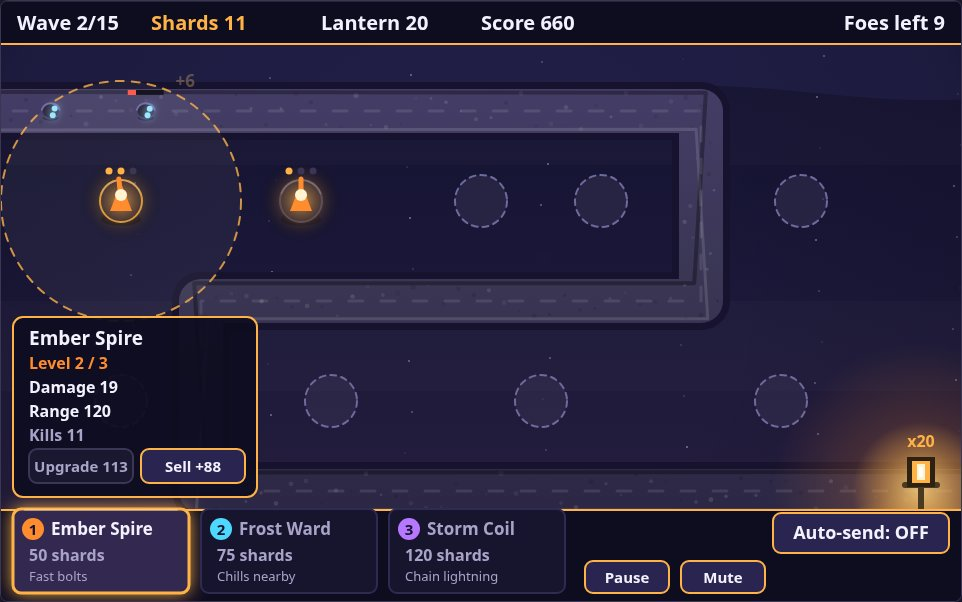
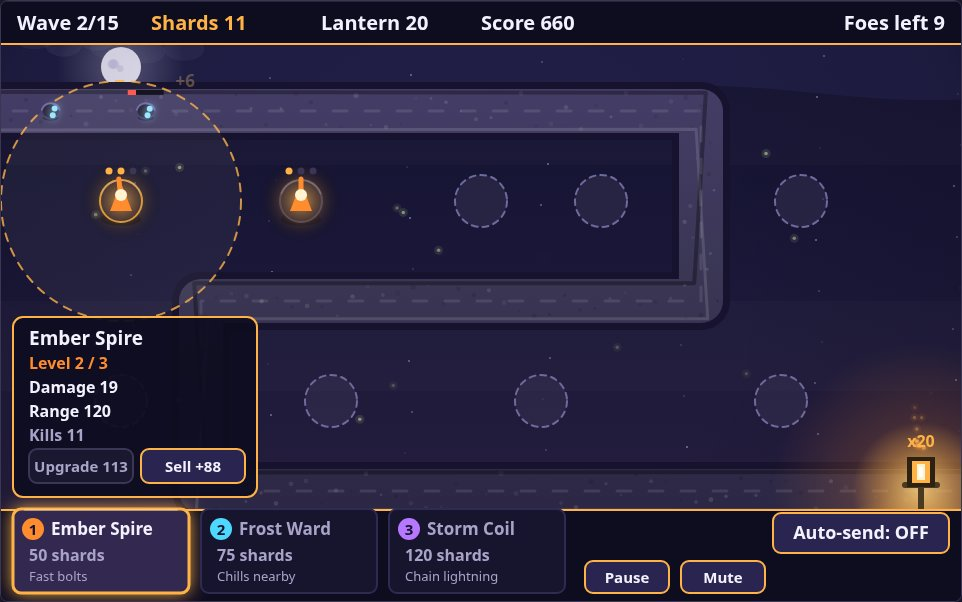
Ambience: deterministic moon, drifting clouds, fireflies, lantern embers
Pure functions of state.time + index hash (hash01): no Math.random,
no Date.now, no state. Moon + clouds in drawField (moon after the
ridge fills, which cover y=44 down to the ridge line), 14 fireflies
in drawPlayField above the path but below plots/towers/enemies, 10
rising embers from the lantern glass in drawLantern. Nothing touches
HUD, panel, path, towers or enemies; balance untouched.
Screenshots re-rendered (victory 29630, defeat wave 3 score 840).

Changed region(s): [[0.0624, 0.0598, 0.1871, 0.1495], [0.9356, 0.7176, 0.9667, 0.7475], [0.4054, 0.3289, 0.4366, 0.3588]]

diff --git a/game/src/render.js b/game/src/render.js
@@ -185,9 +185,11 @@ export function createRenderer(canvas) {
   }
 
   // Dusk field: indigo overhead fading to a faintly warm horizon, two
-  // deterministic sine ridges for a skyline, twinkling stars, and a
-  // stronger vignette so the eye falls on the lit path.
+  // deterministic sine ridges for a skyline, a moon, slow clouds,
+  // twinkling stars, and a stronger vignette so the eye falls on the
+  // lit path.
   function drawField(state) {
+    const t = state.time || 0;
     const sky = ctx.createLinearGradient(0, 0, 0, H);
     sky.addColorStop(0, '#12112e');
     sky.addColorStop(0.45, '#1a1738');
@@ -216,6 +218,32 @@ export function createRenderer(canvas) {
       ctx.fillStyle = rg.color;
       ctx.fill();
     }
+    // Moon: a pale disc with a soft halo. It MUST be drawn after the
+    // ridges: each ridge fill covers everything from y = 44 down to its
+    // own line, so a moon drawn before them is painted over entirely.
+    // Placed at (120, 66) so the whole disc sits below the HUD bar
+    // (y < 44) and just above the far ridge there (ridge top ~85 at
+    // x = 120) — a moon clipped by the HUD reads as a rendering bug.
+    const moonX = 120;
+    const moonY = 66;
+    const moonGlow = ctx.createRadialGradient(moonX, moonY, 8, moonX, moonY, 64);
+    moonGlow.addColorStop(0, 'rgba(232, 230, 255, 0.28)');
+    moonGlow.addColorStop(1, 'rgba(232, 230, 255, 0)');
+    ctx.fillStyle = moonGlow;
+    ctx.fillRect(moonX - 64, moonY - 64, 128, 128);
+    ctx.beginPath();
+    ctx.arc(moonX, moonY, 20, 0, Math.PI * 2);
+    ctx.fillStyle = '#e9e7f7';
+    ctx.fill();
+    // Three faint craters, placed by index hash so the face never changes.
+    for (let c = 0; c < 3; c += 1) {
+      const cx = moonX - 9 + hash01(c, 11) * 18;
+      const cy = moonY - 8 + hash01(c, 12) * 16;
+      ctx.beginPath();
+      ctx.arc(cx, cy, 3 + hash01(c, 13) * 2.5, 0, Math.PI * 2);
+      ctx.fillStyle = 'rgba(178, 172, 218, 0.35)';
+      ctx.fill();
+    }
     // Deterministic starfield: positions from index arithmetic, never random.
     for (let i = 0; i < 70; i += 1) {
       const sx = (i * 137) % W;
@@ -223,6 +251,27 @@ export function createRenderer(canvas) {
       const tw = 0.25 + 0.2 * Math.sin((state.time || 0) * 1.5 + i);
       ctx.fillStyle = 'rgba(180, 175, 230, ' + tw.toFixed(2) + ')';
       ctx.fillRect(sx, sy, 2, 2);
+    }
+    // Slow clouds: four pale clusters drifting across the sky band at
+    // 2-4 px/s, wrapping around the edges. Position is a pure function of
+    // state.time, so the same frame always shows the same sky. Kept very
+    // faint (alpha 0.05-0.08) so they veil the stars, never darken the scene.
+    for (let i = 0; i < 4; i += 1) {
+      const cw = 90 + hash01(i, 21) * 70;
+      const cy = 16 + hash01(i, 22) * 38;
+      const speed = 2 + hash01(i, 23) * 2;
+      const span = W + cw + 120;
+      const cx = ((hash01(i, 24) * W + t * speed) % span) - cw / 2 - 60;
+      const alpha = 0.05 + hash01(i, 25) * 0.03;
+      ctx.fillStyle = 'rgba(205, 200, 238, ' + alpha.toFixed(3) + ')';
+      const puffs = 3 + Math.floor(hash01(i, 26) * 2);
+      for (let p = 0; p < puffs; p += 1) {
+        const px = cx + (p * cw) / puffs + (hash01(i * 10 + p, 27) - 0.5) * 24;
+        const py = cy + (hash01(i * 10 + p, 28) - 0.5) * 10;
+        ctx.beginPath();
+        ctx.ellipse(px, py, (cw / puffs) * 0.62, 9 + hash01(i * 10 + p, 29) * 5, 0, 0, Math.PI * 2);
+        ctx.fill();
+      }
     }
     // Soft ground shading bands so the field is not a flat slab.
     ctx.fillStyle = 'rgba(255, 255, 255, 0.02)';
@@ -469,6 +518,29 @@ export function createRenderer(canvas) {
     // Hot white heart inside the glass so the flame reads as a source.
     ctx.fillStyle = '#ffffff';
     ctx.fillRect(LANTERN.x - 2, LANTERN.y - 24, 4, 10);
+    // Rising embers: ten sparks that climb from the lantern glass and
+    // fade out, each on its own period and phase from index hash. A pure
+    // function of state.time — the same frame always shows the same sparks.
+    for (let i = 0; i < 10; i += 1) {
+      const period = 2.2 + hash01(i, 41) * 1.4;
+      const offset = hash01(i, 42) * period;
+      const cycle = ((t + offset) % period) / period;
+      const rise = 55 + hash01(i, 43) * 25;
+      const sway = 1 + hash01(i, 44);
+      const ex = LANTERN.x
+        + Math.sin(cycle * Math.PI * 2 * sway + hash01(i, 45) * 6) * (2 + cycle * 9);
+      const ey = LANTERN.y - 32 - cycle * rise;
+      const eAlpha = (1 - cycle) * 0.65;
+      const eSize = 2.4 - cycle * 1.1;
+      ctx.beginPath();
+      ctx.arc(ex, ey, eSize + 2.5, 0, Math.PI * 2);
+      ctx.fillStyle = 'rgba(255, 140, 46, ' + (eAlpha * 0.3).toFixed(3) + ')';
+      ctx.fill();
+      ctx.beginPath();
+      ctx.arc(ex, ey, Math.max(0.8, eSize), 0, Math.PI * 2);
+      ctx.fillStyle = 'rgba(255, 200, 110, ' + eAlpha.toFixed(3) + ')';
+      ctx.fill();
+    }
     // Lives label sits ABOVE the lantern head: the old spot (below the
     // post foot) is painted over by the bottom bar, so it was invisible.
     const lives = state.lives || 0;
@@ -890,9 +962,39 @@ export function createRenderer(canvas) {
     }
   }
 
+  // Fireflies: slow green-gold drifters over the field, positioned by
+  // index hash and moved only by state.time. Drawn above the path but
+  // below plots, towers and enemies, so they never hide gameplay. Each
+  // one pulses gently; none is ever brighter than a tower glow.
+  function drawFireflies(state) {
+    const t = state.time || 0;
+    for (let i = 0; i < 14; i += 1) {
+      const bx = 40 + hash01(i, 31) * 880;
+      const by = 130 + hash01(i, 32) * 340;
+      const ampX = 16 + hash01(i, 33) * 24;
+      const ampY = 8 + hash01(i, 34) * 16;
+      const sx = 0.05 + hash01(i, 35) * 0.07;
+      const sy = 0.04 + hash01(i, 36) * 0.06;
+      const ph = hash01(i, 37) * Math.PI * 2;
+      const x = bx + Math.sin(t * sx + ph) * ampX;
+      const y = by + Math.cos(t * sy + ph * 1.7) * ampY;
+      const pulse = 0.5 + 0.5 * Math.sin(t * 0.9 + ph * 3);
+      const alpha = 0.18 + 0.32 * pulse;
+      ctx.beginPath();
+      ctx.arc(x, y, 4.5, 0, Math.PI * 2);
+      ctx.fillStyle = 'rgba(216, 247, 154, ' + (alpha * 0.25).toFixed(3) + ')';
+      ctx.fill();
+      ctx.beginPath();
+      ctx.arc(x, y, 1.8, 0, Math.PI * 2);
+      ctx.fillStyle = 'rgba(230, 252, 180, ' + alpha.toFixed(3) + ')';
+      ctx.fill();
+    }
+  }
+
   function drawPlayField(state, ui) {
     drawField(state);
     drawPath();
+    drawFireflies(state);
     drawPlots(state, ui);
     drawLantern(state);
     const towers = state.towers || [];
